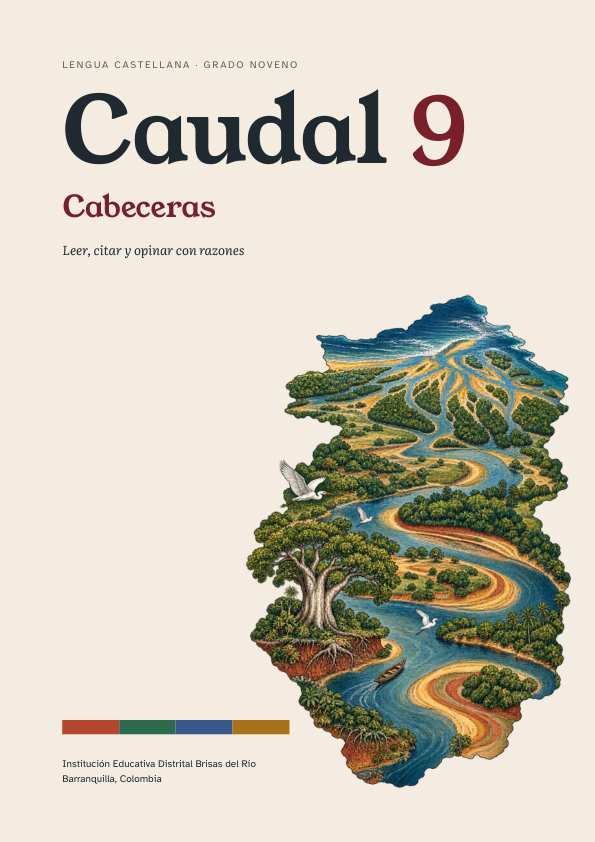
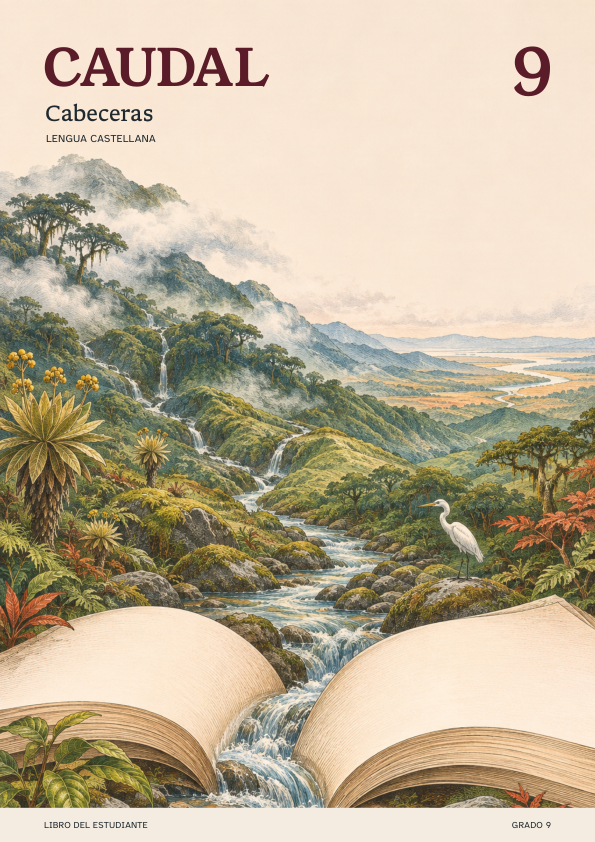
Publica la edición v0.3.0 de Caudal 9, 10 y 11
Portadas de grabado y acuarela, una por grado, en libros, guías y bibliotecas; encabezados con icono en cada momento y tarjetas en el índice de cada corriente; guías de 9 y 10 a su tamaño. README, catálogo, cita, registro de versiones, portadas, bitácora y manifiestos apuntan a la publicación v0.3.0.

diff --git a/README.md b/README.md
@@ -6,7 +6,7 @@
 
 **Leer, conversar, crear y volver a pensar.**
 
-Proyecto en curso · v0.2.0 · Barranquilla, Colombia
+Proyecto en curso · v0.3.0 · Barranquilla, Colombia
 
 [Libros y descargas](#libros-y-descargas) · [Recursos para el aula](#recursos-para-el-aula) · [Investigación](#un-proyecto-en-construcción) · [Bitácora](docs/BITACORA.md) · [Licencia](DERECHOS.md)
 
@@ -23,22 +23,22 @@ Caudal propone un recorrido por la literatura, las voces del territorio y las pr
 Los enlaces de las portadas descargan los **PDF completos y originales**. Se conservan su contenido, diseño, paginación y créditos.
 
 <table><tr>
-<td align="center" width="33%"><a href="https://github.com/nestorfernando3/caudal/releases/download/v0.2.0/caudal-9-libro-del-estudiante.pdf"><img src="docs/imagenes/caudal-9-portada.png" width="280" alt="Portada original de Caudal 9" /></a><br /><strong>Caudal 9</strong><br />Cabeceras<br /><sub>222 páginas</sub><br /><br /><a href="https://github.com/nestorfernando3/caudal/releases/download/v0.2.0/caudal-9-libro-del-estudiante.pdf"><strong>Descargar libro completo</strong></a></td>
-<td align="center" width="33%"><a href="https://github.com/nestorfernando3/caudal/releases/download/v0.2.0/caudal-10-libro-del-estudiante.pdf"><img src="docs/imagenes/caudal-10-portada.png" width="280" alt="Portada original de Caudal 10" /></a><br /><strong>Caudal 10</strong><br />Confluencias<br /><sub>109 páginas</sub><br /><br /><a href="https://github.com/nestorfernando3/caudal/releases/download/v0.2.0/caudal-10-libro-del-estudiante.pdf"><strong>Descargar libro completo</strong></a></td>
-<td align="center" width="33%"><a href="https://github.com/nestorfernando3/caudal/releases/download/v0.2.0/caudal-11-libro-del-estudiante.pdf"><img src="docs/imagenes/caudal-11-portada.png" width="280" alt="Portada original de Caudal 11" /></a><br /><strong>Caudal 11</strong><br />Delta<br /><sub>169 páginas</sub><br /><br /><a href="https://github.com/nestorfernando3/caudal/releases/download/v0.2.0/caudal-11-libro-del-estudiante.pdf"><strong>Descargar libro completo</strong></a></td>
+<td align="center" width="33%"><a href="https://github.com/nestorfernando3/caudal/releases/download/v0.3.0/caudal-9-libro-del-estudiante.pdf"><img src="docs/imagenes/caudal-9-portada.png" width="280" alt="Portada original de Caudal 9" /></a><br /><strong>Caudal 9</strong><br />Cabeceras<br /><sub>224 páginas</sub><br /><br /><a href="https://github.com/nestorfernando3/caudal/releases/download/v0.3.0/caudal-9-libro-del-estudiante.pdf"><strong>Descargar libro completo</strong></a></td>
+<td align="center" width="33%"><a href="https://github.com/nestorfernando3/caudal/releases/download/v0.3.0/caudal-10-libro-del-estudiante.pdf"><img src="docs/imagenes/caudal-10-portada.png" width="280" alt="Portada original de Caudal 10" /></a><br /><strong>Caudal 10</strong><br />Confluencias<br /><sub>112 páginas</sub><br /><br /><a href="https://github.com/nestorfernando3/caudal/releases/download/v0.3.0/caudal-10-libro-del-estudiante.pdf"><strong>Descargar libro completo</strong></a></td>
+<td align="center" width="33%"><a href="https://github.com/nestorfernando3/caudal/releases/download/v0.3.0/caudal-11-libro-del-estudiante.pdf"><img src="docs/imagenes/caudal-11-portada.png" width="280" alt="Portada original de Caudal 11" /></a><br /><strong>Caudal 11</strong><br />Delta<br /><sub>172 páginas</sub><br /><br /><a href="https://github.com/nestorfernando3/caudal/releases/download/v0.3.0/caudal-11-libro-del-estudiante.pdf"><strong>Descargar libro completo</strong></a></td>
 </tr></table>
 
 ### Caudal 9 · Cabeceras
 
 Una entrada a la lectura literaria que conecta emociones, formas de narrar y problemas del entorno. El Romanticismo, el Realismo, el Naturalismo, el Modernismo y las rupturas de la vanguardia se encuentran con la crónica, el teatro, el debate y la escritura propia. **Leer, citar y opinar con razones.** La colección empieza por aprender a leer con atención y a sostener una interpretación con pistas del texto.
 
-Sus cuatro corrientes son *El corazón y el espejo*, *La selva que devora*, *Lo que dicen las palabras* y *Romper el molde*. El volumen incorpora diagnóstico, actividades con rutas de apoyo y de ampliación, Banco Saber, glosario y portafolio. La edición v0.2.0 se rehízo a partir de lo que propusieron estudiantes que leyeron el libro: la [bitácora](docs/BITACORA.md) cuenta qué cambió y por qué. Las corrientes también pueden descargarse por separado desde la [publicación de la colección](https://github.com/nestorfernando3/caudal/releases/tag/v0.2.0).
+Sus cuatro corrientes son *El corazón y el espejo*, *La selva que devora*, *Lo que dicen las palabras* y *Romper el molde*. El volumen incorpora diagnóstico, actividades con rutas de apoyo y de ampliación, Banco Saber, glosario y portafolio. Desde la edición v0.2.0, el libro se rehízo a partir de lo que propusieron estudiantes que leyeron el libro: la [bitácora](docs/BITACORA.md) cuenta qué cambió y por qué. Las corrientes también pueden descargarse por separado desde la [publicación de la colección](https://github.com/nestorfernando3/caudal/releases/tag/v0.3.0).
 
 ### Caudal 10 · Confluencias
 
 **Leer, contrastar y sostener una idea.** El diálogo entre épocas y voces orienta un recorrido por la literatura medieval, el Siglo de Oro, el Romanticismo y las vanguardias. Las lecturas se ponen en relación con discursos, imágenes, datos y preguntas del presente; el trabajo conduce a contrastar versiones, construir argumentos y responder objeciones.
 
-Sus cuatro corrientes son *Quien canta, cuenta*, *Lo que se dice a media voz*, *Ver para contar* y *Romper y sostener*. También pueden descargarse como cuadernillos independientes desde la [publicación de la colección](https://github.com/nestorfernando3/caudal/releases/tag/v0.2.0).
+Sus cuatro corrientes son *Quien canta, cuenta*, *Lo que se dice a media voz*, *Ver para contar* y *Romper y sostener*. También pueden descargarse como cuadernillos independientes desde la [publicación de la colección](https://github.com/nestorfernando3/caudal/releases/tag/v0.3.0).
 
 ### Caudal 11 · Delta
 
@@ -50,11 +50,11 @@ Sus cuatro corrientes son *Mirar de frente*, *Voces a contracorriente*, *El peso
 
 | Grado | Biblioteca del río | Guía del docente |
 |---|---|---|
-| 9.º | [Descargar lecturas](https://github.com/nestorfernando3/caudal/releases/download/v0.2.0/caudal-9-biblioteca-del-rio.pdf) | [Descargar guía](https://github.com/nestorfernando3/caudal/releases/download/v0.2.0/caudal-9-guia-docente.pdf) |
-| 10.º | [Descargar lecturas](https://github.com/nestorfernando3/caudal/releases/download/v0.2.0/caudal-10-biblioteca-del-rio.pdf) | [Descargar guía](https://github.com/nestorfernando3/caudal/releases/download/v0.2.0/caudal-10-guia-docente.pdf) |
-| 11.º | [Descargar lecturas](https://github.com/nestorfernando3/caudal/releases/download/v0.2.0/caudal-11-biblioteca-del-rio.pdf) | [Descargar guía](https://github.com/nestorfernando3/caudal/releases/download/v0.2.0/caudal-11-guia-docente.pdf) |
+| 9.º | [Descargar lecturas](https://github.com/nestorfernando3/caudal/releases/download/v0.3.0/caudal-9-biblioteca-del-rio.pdf) | [Descargar guía](https://github.com/nestorfernando3/caudal/releases/download/v0.3.0/caudal-9-guia-docente.pdf) |
+| 10.º | [Descargar lecturas](https://github.com/nestorfernando3/caudal/releases/download/v0.3.0/caudal-10-biblioteca-del-rio.pdf) | [Descargar guía](https://github.com/nestorfernando3/caudal/releases/download/v0.3.0/caudal-10-guia-docente.pdf) |
+| 11.º | [Descargar lecturas](https://github.com/nestorfernando3/caudal/releases/download/v0.3.0/caudal-11-biblioteca-del-rio.pdf) | [Descargar guía](https://github.com/nestorfernando3/caudal/releases/download/v0.3.0/caudal-11-guia-docente.pdf) |
 
-Las guías complementarias de [Caudal 10](https://github.com/nestorfernando3/caudal/releases/download/v0.1.0/Caudal_10_Guia_para_el_docente.pdf) y [Caudal 11](https://github.com/nestorfernando3/caudal/releases/download/v0.1.0/Caudal_11_Guia_para_el_docente.pdf) siguen disponibles en la publicación anterior. El [catálogo completo](docs/CATALOGO.md) identifica cada PDF y su extensión. Todas las descargas vigentes están reunidas en la [publicación v0.2.0](https://github.com/nestorfernando3/caudal/releases/tag/v0.2.0); la [v0.1.0](https://github.com/nestorfernando3/caudal/releases/tag/v0.1.0) conserva la edición anterior.
+Las guías complementarias de [Caudal 10](https://github.com/nestorfernando3/caudal/releases/download/v0.1.0/Caudal_10_Guia_para_el_docente.pdf) y [Caudal 11](https://github.com/nestorfernando3/caudal/releases/download/v0.1.0/Caudal_11_Guia_para_el_docente.pdf) siguen disponibles en la publicación anterior. El [catálogo completo](docs/CATALOGO.md) identifica cada PDF y su extensión. Todas las descargas vigentes están reunidas en la [publicación v0.3.0](https://github.com/nestorfernando3/caudal/releases/tag/v0.3.0); la [v0.1.0](https://github.com/nestorfernando3/caudal/releases/tag/v0.1.0) conserva la primera edición.
 
 ## Una ruta que recorre la colección
 
@@ -91,7 +91,7 @@ La [bitácora de la serie](docs/BITACORA.md) cuenta, paso a paso y en lenguaje s
 
 ## Cómo citar
 
-> De León Llanos, N. F. (2026). *Caudal: Lengua Castellana, grados 9, 10 y 11* (v0.2.0) [Proyecto en curso y materiales pedagógicos]. GitHub. https://github.com/nestorfernando3/caudal
+> De León Llanos, N. F. (2026). *Caudal: Lengua Castellana, grados 9, 10 y 11* (v0.3.0) [Proyecto en curso y materiales pedagógicos]. GitHub. https://github.com/nestorfernando3/caudal
 
 Para citar un libro o una ficha, añade su título y la página o sección utilizada. Los [metadatos de cita](CITATION.cff), el [catálogo de PDF](docs/CATALOGO.json) y los [manifiestos de archivos](MANIFEST.json) permiten identificar las versiones.
 

diff --git a/docs/CATALOGO.md b/docs/CATALOGO.md
@@ -1,30 +1,30 @@
 # Catálogo de Caudal 9, 10 y 11
 
-PDF originales disponibles para descarga. Corte del archivo: 2 de noviembre de 2026 (v0.2.0).
+PDF originales disponibles para descarga. Corte del archivo: 3 de noviembre de 2026 (v0.3.0).
 
 | Grado | Archivo | Páginas |
 |---|---|---:|
-| 9 | [caudal-9-biblioteca-del-rio.pdf](https://github.com/nestorfernando3/caudal/releases/download/v0.2.0/caudal-9-biblioteca-del-rio.pdf) | 466 |
-| 9 | [caudal-9-corriente-1-el-corazon-y-el-espejo.pdf](https://github.com/nestorfernando3/caudal/releases/download/v0.2.0/caudal-9-corriente-1-el-corazon-y-el-espejo.pdf) | 49 |
-| 9 | [caudal-9-corriente-2-la-selva-que-devora.pdf](https://github.com/nestorfernando3/caudal/releases/download/v0.2.0/caudal-9-corriente-2-la-selva-que-devora.pdf) | 55 |
-| 9 | [caudal-9-corriente-3-lo-que-dicen-las-palabras.pdf](https://github.com/nestorfernando3/caudal/releases/download/v0.2.0/caudal-9-corriente-3-lo-que-dicen-las-palabras.pdf) | 46 |
-| 9 | [caudal-9-corriente-4-romper-el-molde.pdf](https://github.com/nestorfernando3/caudal/releases/download/v0.2.0/caudal-9-corriente-4-romper-el-molde.pdf) | 45 |
-| 9 | [caudal-9-guia-docente.pdf](https://github.com/nestorfernando3/caudal/releases/download/v0.2.0/caudal-9-guia-docente.pdf) | 44 |
-| 9 | [caudal-9-libro-del-estudiante.pdf](https://github.com/nestorfernando3/caudal/releases/download/v0.2.0/caudal-9-libro-del-estudiante.pdf) | 222 |
-| 10 | [caudal-10-biblioteca-del-rio.pdf](https://github.com/nestorfernando3/caudal/releases/download/v0.2.0/caudal-10-biblioteca-del-rio.pdf) | 112 |
-| 10 | [caudal-10-corriente-1-quien-canta-cuenta.pdf](https://github.com/nestorfernando3/caudal/releases/download/v0.2.0/caudal-10-corriente-1-quien-canta-cuenta.pdf) | 18 |
-| 10 | [caudal-10-corriente-2-lo-que-se-dice-a-media-voz.pdf](https://github.com/nestorfernando3/caudal/releases/download/v0.2.0/caudal-10-corriente-2-lo-que-se-dice-a-media-voz.pdf) | 26 |
-| 10 | [caudal-10-corriente-3-ver-para-contar.pdf](https://github.com/nestorfernando3/caudal/releases/download/v0.2.0/caudal-10-corriente-3-ver-para-contar.pdf) | 25 |
-| 10 | [caudal-10-corriente-4-romper-y-sostener.pdf](https://github.com/nestorfernando3/caudal/releases/download/v0.2.0/caudal-10-corriente-4-romper-y-sostener.pdf) | 17 |
-| 10 | [caudal-10-guia-docente.pdf](https://github.com/nestorfernando3/caudal/releases/download/v0.2.0/caudal-10-guia-docente.pdf) | 27 |
-| 10 | [caudal-10-libro-del-estudiante.pdf](https://github.com/nestorfernando3/caudal/releases/download/v0.2.0/caudal-10-libro-del-estudiante.pdf) | 109 |
-| 11 | [caudal-11-biblioteca-del-rio.pdf](https://github.com/nestorfernando3/caudal/releases/download/v0.2.0/caudal-11-biblioteca-del-rio.pdf) | 51 |
-| 11 | [caudal-11-corriente-1-mirar-de-frente.pdf](https://github.com/nestorfernando3/caudal/releases/download/v0.2.0/caudal-11-corriente-1-mirar-de-frente.pdf) | 39 |
-| 11 | [caudal-11-corriente-2-voces-a-contracorriente.pdf](https://github.com/nestorfernando3/caudal/releases/download/v0.2.0/caudal-11-corriente-2-voces-a-contracorriente.pdf) | 31 |
-| 11 | [caudal-11-corriente-3-el-peso-del-medio.pdf](https://github.com/nestorfernando3/caudal/releases/download/v0.2.0/caudal-11-corriente-3-el-peso-del-medio.pdf) | 35 |
-| 11 | [caudal-11-corriente-4-cambiar-de-forma.pdf](https://github.com/nestorfernando3/caudal/releases/download/v0.2.0/caudal-11-corriente-4-cambiar-de-forma.pdf) | 31 |
-| 11 | [caudal-11-guia-docente.pdf](https://github.com/nestorfernando3/caudal/releases/download/v0.2.0/caudal-11-guia-docente.pdf) | 55 |
-| 11 | [caudal-11-libro-del-estudiante.pdf](https://github.com/nestorfernando3/caudal/releases/download/v0.2.0/caudal-11-libro-del-estudiante.pdf) | 169 |
+| 9 | [caudal-9-biblioteca-del-rio.pdf](https://github.com/nestorfernando3/caudal/releases/download/v0.3.0/caudal-9-biblioteca-del-rio.pdf) | 466 |
+| 9 | [caudal-9-corriente-1-el-corazon-y-el-espejo.pdf](https://github.com/nestorfernando3/caudal/releases/download/v0.3.0/caudal-9-corriente-1-el-corazon-y-el-espejo.pdf) | 50 |
+| 9 | [caudal-9-corriente-2-la-selva-que-devora.pdf](https://github.com/nestorfernando3/caudal/releases/download/v0.3.0/caudal-9-corriente-2-la-selva-que-devora.pdf) | 55 |
+| 9 | [caudal-9-corriente-3-lo-que-dicen-las-palabras.pdf](https://github.com/nestorfernando3/caudal/releases/download/v0.3.0/caudal-9-corriente-3-lo-que-dicen-las-palabras.pdf) | 47 |
+| 9 | [caudal-9-corriente-4-romper-el-molde.pdf](https://github.com/nestorfernando3/caudal/releases/download/v0.3.0/caudal-9-corriente-4-romper-el-molde.pdf) | 45 |
+| 9 | [caudal-9-guia-docente.pdf](https://github.com/nestorfernando3/caudal/releases/download/v0.3.0/caudal-9-guia-docente.pdf) | 67 |
+| 9 | [caudal-9-libro-del-estudiante.pdf](https://github.com/nestorfernando3/caudal/releases/download/v0.3.0/caudal-9-libro-del-estudiante.pdf) | 224 |
+| 10 | [caudal-10-biblioteca-del-rio.pdf](https://github.com/nestorfernando3/caudal/releases/download/v0.3.0/caudal-10-biblioteca-del-rio.pdf) | 112 |
+| 10 | [caudal-10-corriente-1-quien-canta-cuenta.pdf](https://github.com/nestorfernando3/caudal/releases/download/v0.3.0/caudal-10-corriente-1-quien-canta-cuenta.pdf) | 19 |
+| 10 | [caudal-10-corriente-2-lo-que-se-dice-a-media-voz.pdf](https://github.com/nestorfernando3/caudal/releases/download/v0.3.0/caudal-10-corriente-2-lo-que-se-dice-a-media-voz.pdf) | 26 |
+| 10 | [caudal-10-corriente-3-ver-para-contar.pdf](https://github.com/nestorfernando3/caudal/releases/download/v0.3.0/caudal-10-corriente-3-ver-para-contar.pdf) | 26 |
+| 10 | [caudal-10-corriente-4-romper-y-sostener.pdf](https://github.com/nestorfernando3/caudal/releases/download/v0.3.0/caudal-10-corriente-4-romper-y-sostener.pdf) | 19 |
+| 10 | [caudal-10-guia-docente.pdf](https://github.com/nestorfernando3/caudal/releases/download/v0.3.0/caudal-10-guia-docente.pdf) | 35 |
+| 10 | [caudal-10-libro-del-estudiante.pdf](https://github.com/nestorfernando3/caudal/releases/download/v0.3.0/caudal-10-libro-del-estudiante.pdf) | 112 |
+| 11 | [caudal-11-biblioteca-del-rio.pdf](https://github.com/nestorfernando3/caudal/releases/download/v0.3.0/caudal-11-biblioteca-del-rio.pdf) | 51 |
+| 11 | [caudal-11-corriente-1-mirar-de-frente.pdf](https://github.com/nestorfernando3/caudal/releases/download/v0.3.0/caudal-11-corriente-1-mirar-de-frente.pdf) | 40 |
+| 11 | [caudal-11-corriente-2-voces-a-contracorriente.pdf](https://github.com/nestorfernando3/caudal/releases/download/v0.3.0/caudal-11-corriente-2-voces-a-contracorriente.pdf) | 33 |
+| 11 | [caudal-11-corriente-3-el-peso-del-medio.pdf](https://github.com/nestorfernando3/caudal/releases/download/v0.3.0/caudal-11-corriente-3-el-peso-del-medio.pdf) | 36 |
+| 11 | [caudal-11-corriente-4-cambiar-de-forma.pdf](https://github.com/nestorfernando3/caudal/releases/download/v0.3.0/caudal-11-corriente-4-cambiar-de-forma.pdf) | 31 |
+| 11 | [caudal-11-guia-docente.pdf](https://github.com/nestorfernando3/caudal/releases/download/v0.3.0/caudal-11-guia-docente.pdf) | 55 |
+| 11 | [caudal-11-libro-del-estudiante.pdf](https://github.com/nestorfernando3/caudal/releases/download/v0.3.0/caudal-11-libro-del-estudiante.pdf) | 172 |
 | 10 | [Caudal_10_Guia_para_el_docente.pdf](https://github.com/nestorfernando3/caudal/releases/download/v0.1.0/Caudal_10_Guia_para_el_docente.pdf) | 37 |
 | 11 | [Caudal_11_Guia_para_el_docente.pdf](https://github.com/nestorfernando3/caudal/releases/download/v0.1.0/Caudal_11_Guia_para_el_docente.pdf) | 38 |
 

diff --git a/docs/BITACORA.md b/docs/BITACORA.md
@@ -58,6 +58,12 @@ El autor también notó que el diseño de décimo estaba mejor resuelto, y noven
 
 Con todo esto, *Caudal 9* tiene 222 páginas, dos más que la meta. El autor decidió conservarlas: las dos páginas son las actividades nuevas, y quitarlas habría significado quitar justamente lo que pidieron los estudiantes.
 
+## Sexto momento: una misma cara para la serie
+
+Faltaba que los tres libros se reconocieran como una familia. Entre las propuestas visuales que se habían preparado para décimo y once, el autor eligió las portadas de grabado y acuarela, una por grado, y descartó las demás opciones. Noveno no tenía la suya: se preparó en el mismo estilo una ilustración de las *cabeceras*, los arroyos que nacen en la Sierra Nevada de Santa Marta y bajan hasta un libro abierto, y otra para su guía docente, con un objeto por corriente: un espejo y una pluma, una hoja de caucho, un altavoz con su cartel y papeles recortados. Así, el río de la serie nace en noveno, se junta con otros en décimo y se abre en delta en once.
+
+Por dentro, cada momento de una corriente abre ahora con un encabezado propio: un icono (la gota del Nacimiento, los globos de Dialogar, el libro abierto de Leer la corriente, el bolígrafo de Transformar), el número del momento, su título y una frase que dice para qué sirve, como «Escuchar y poner ideas en común» o «Interpretar con evidencia». El índice de cada corriente dejó de ser una tabla y se volvió un conjunto de tarjetas con el mismo icono y la página. Al revisar estos cambios apareció un error que nadie había notado: las guías docentes de noveno y décimo se imprimían reducidas, con la letra más pequeña de lo previsto. Ya salen a su tamaño.
+
 ## Lo que cambió en décimo y once
 
 La consulta de 8A no se quedó en noveno. De ella vino, por ejemplo, la opción de un video de dos minutos para el dossier de la tercera corriente de décimo, con la misma condición de no reemplazar la evidencia escrita. Décimo tiene además una guía docente completa en PDF, con los DBA corregidos como los de noveno, una voz de la orilla en la corriente que no la tenía y una carta de cierre, «Para mi yo de once». En once se reescribieron 24 justificaciones de la clave del simulacro, que descartaban por error la opción correcta o nombraban mal las demás, y la *Biblioteca del río 11* dejó de repetir las lecturas del libro: hoy trae obras que el libro solo muestra en parte, como *Edipo rey* completo y el canto XXIV de la *Ilíada*. Los tres libros comparten ahora un mismo sistema de diseño y los mismos controles de calidad.

diff --git a/CHANGELOG.md b/CHANGELOG.md
@@ -1,5 +1,9 @@
 # Registro de versiones
 
+## v0.3.0 · 3 de noviembre de 2026 · Proyecto en curso
+
+Una misma cara para la serie. Los libros, las guías docentes y las bibliotecas de los tres grados usan las portadas de grabado y acuarela elegidas entre las propuestas visuales, una por grado; *Caudal 9* estrena las suyas. Dentro de los libros, cada momento de una corriente abre con un encabezado con icono, número, título y lema, y el índice de cada corriente se presenta en tarjetas. Las guías docentes de 9 y 10, que se imprimían reducidas, salen a su tamaño. Libros de 224, 112 y 172 páginas. La [bitácora](docs/BITACORA.md) cuenta estos cambios en su sexto momento. La publicación v0.3.0 trae los 21 PDF vigentes; la v0.1.0 conserva la primera edición, las guías complementarias y el ZIP de recursos.
+
 ## v0.2.0 · 2 de noviembre de 2026 · Proyecto en curso
 
 Revisión de la serie a partir de una consulta a estudiantes de 8A, que leyeron *Caudal 9* y propusieron cambios. *Caudal 9* se rehace con el diseño de 10 y 11 y pasa a llamarse *Cabeceras*: corrientes en lugar de unidades, lecturas largas en la *Biblioteca del río 9*, glosas en las lecturas comunes, una voz del Caribe en cada corriente, anuncios con formatos actuales, edición para celular y rutas Cauce, Remo y Afluente visibles en cada actividad. Entran una charla de William Kamkwamba, dos canciones de Jorge Drexler y una lectura dramatizada, con códigos QR a sus fuentes. *Caudal 10* recibe guía docente completa y DBA corregidos; *Caudal 11*, una clave del simulacro revisada y una *Biblioteca del río* que ya no repite el libro. La [bitácora](docs/BITACORA.md) cuenta paso a paso qué cambió, quién lo motivó y qué decisiones tomó el autor. La publicación v0.2.0 trae 21 PDF: libro, corrientes, guía docente y biblioteca de cada grado. *Caudal 9* tiene 222 páginas y, por primera vez, sus corrientes en PDF independientes; *Caudal 10*, su guía docente. La publicación v0.1.0 conserva la edición anterior, las guías complementarias y el ZIP de recursos, que no cambian.
